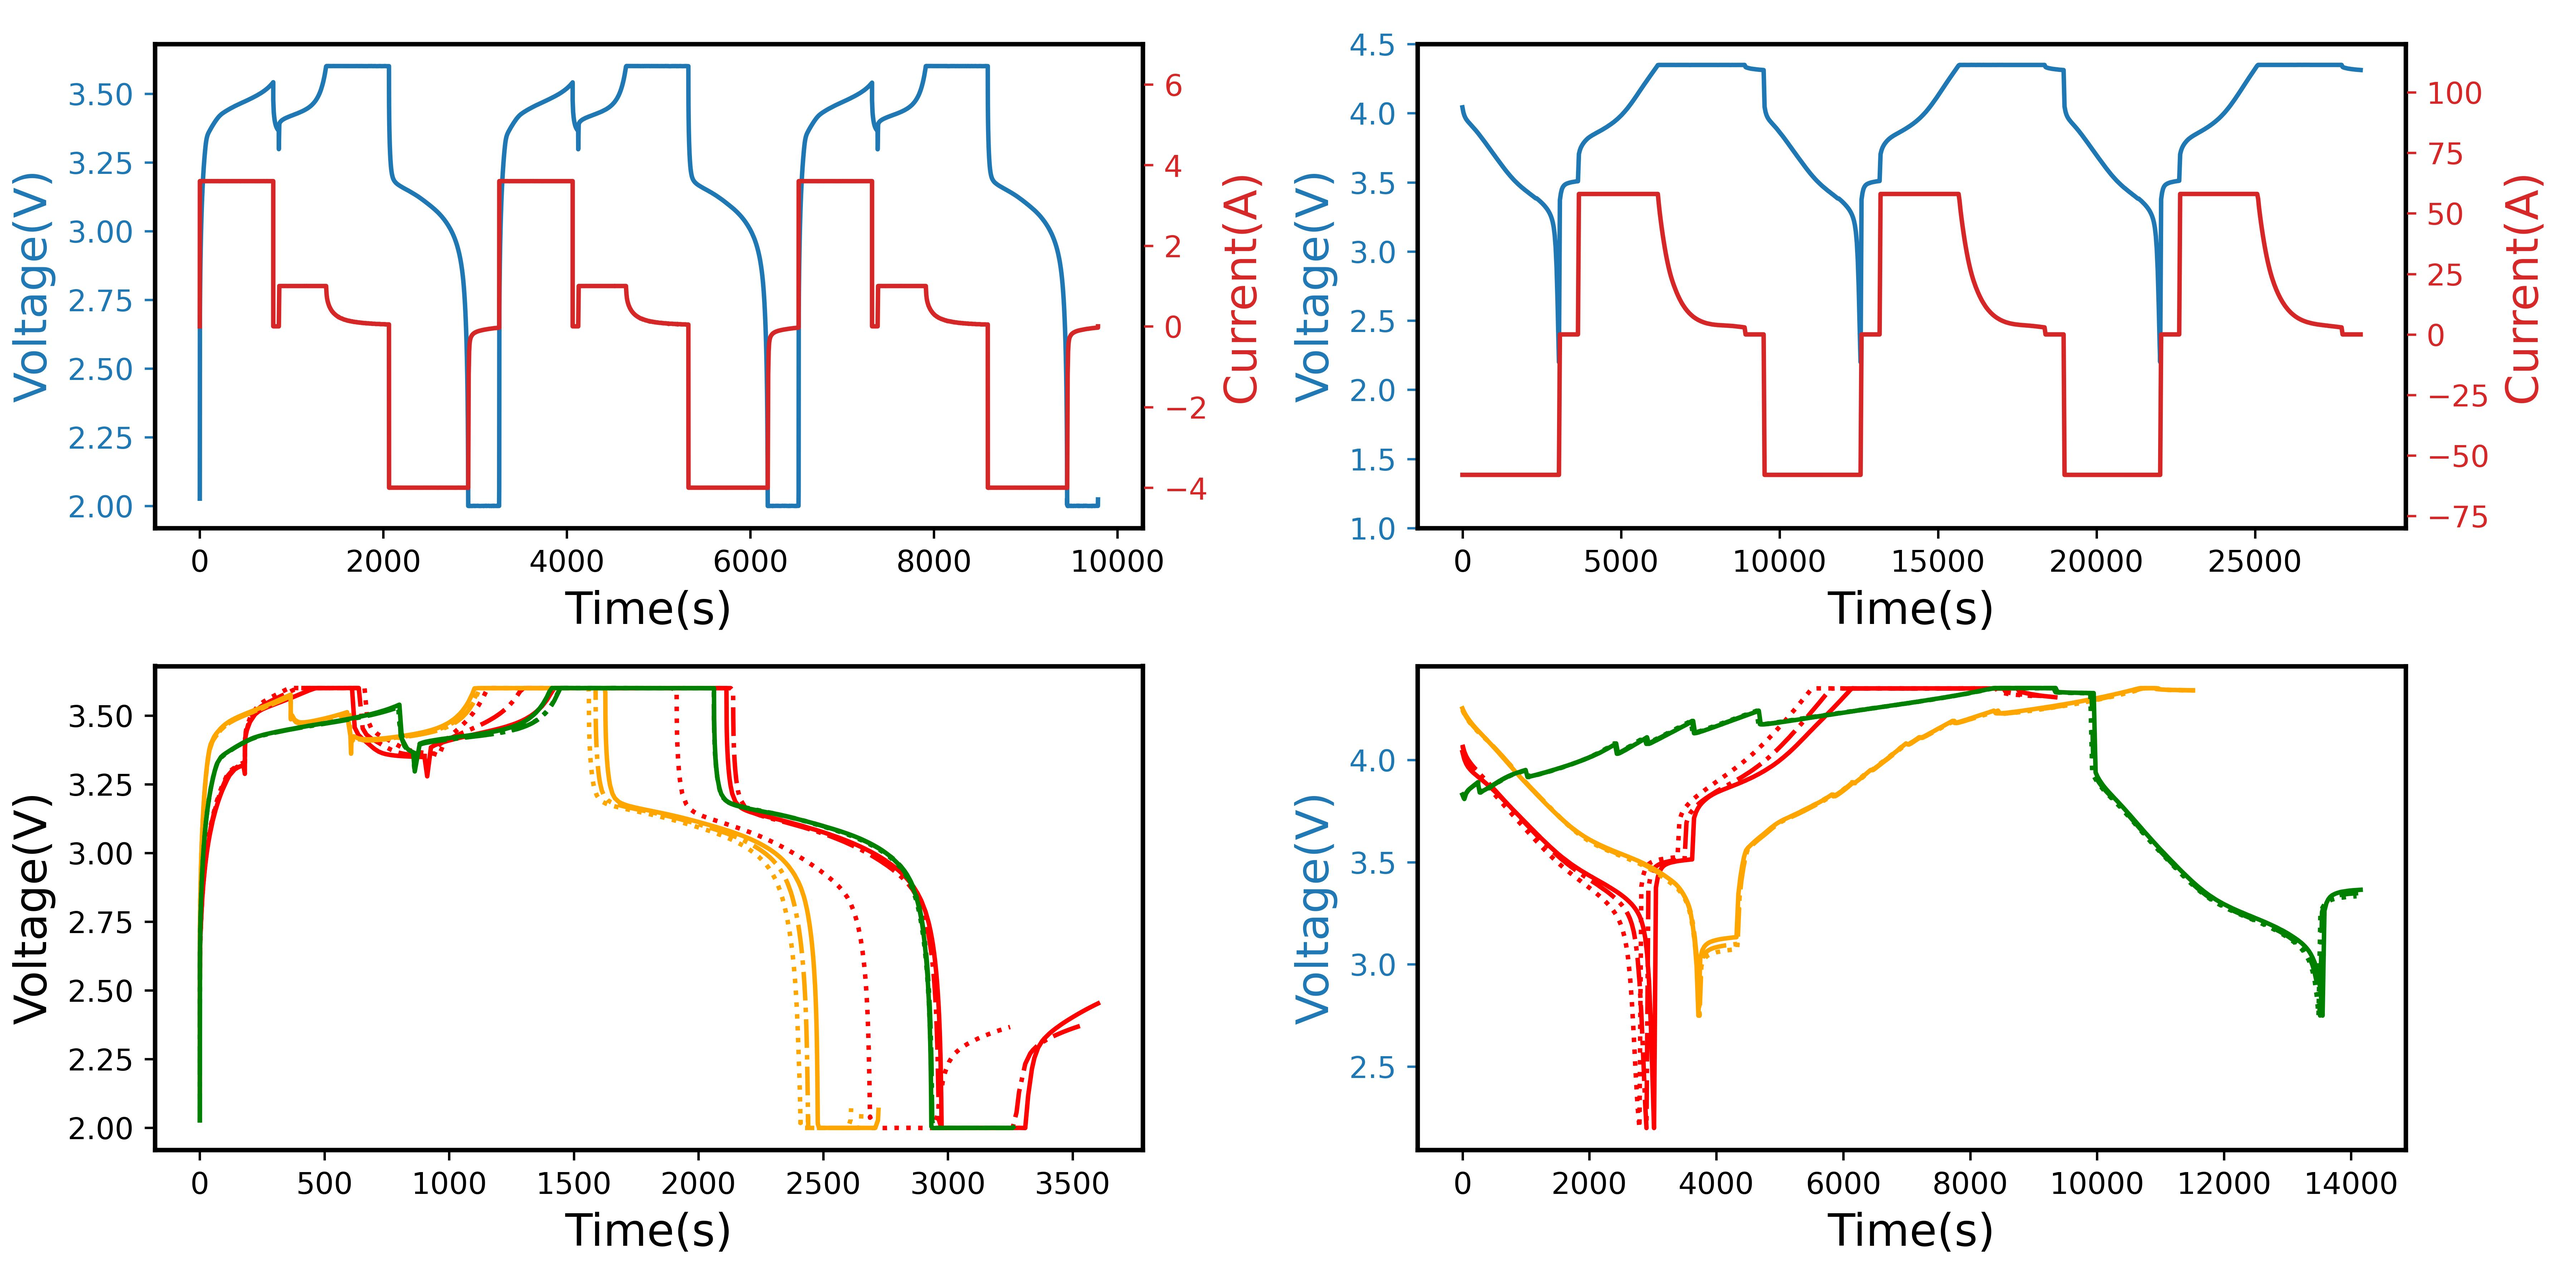
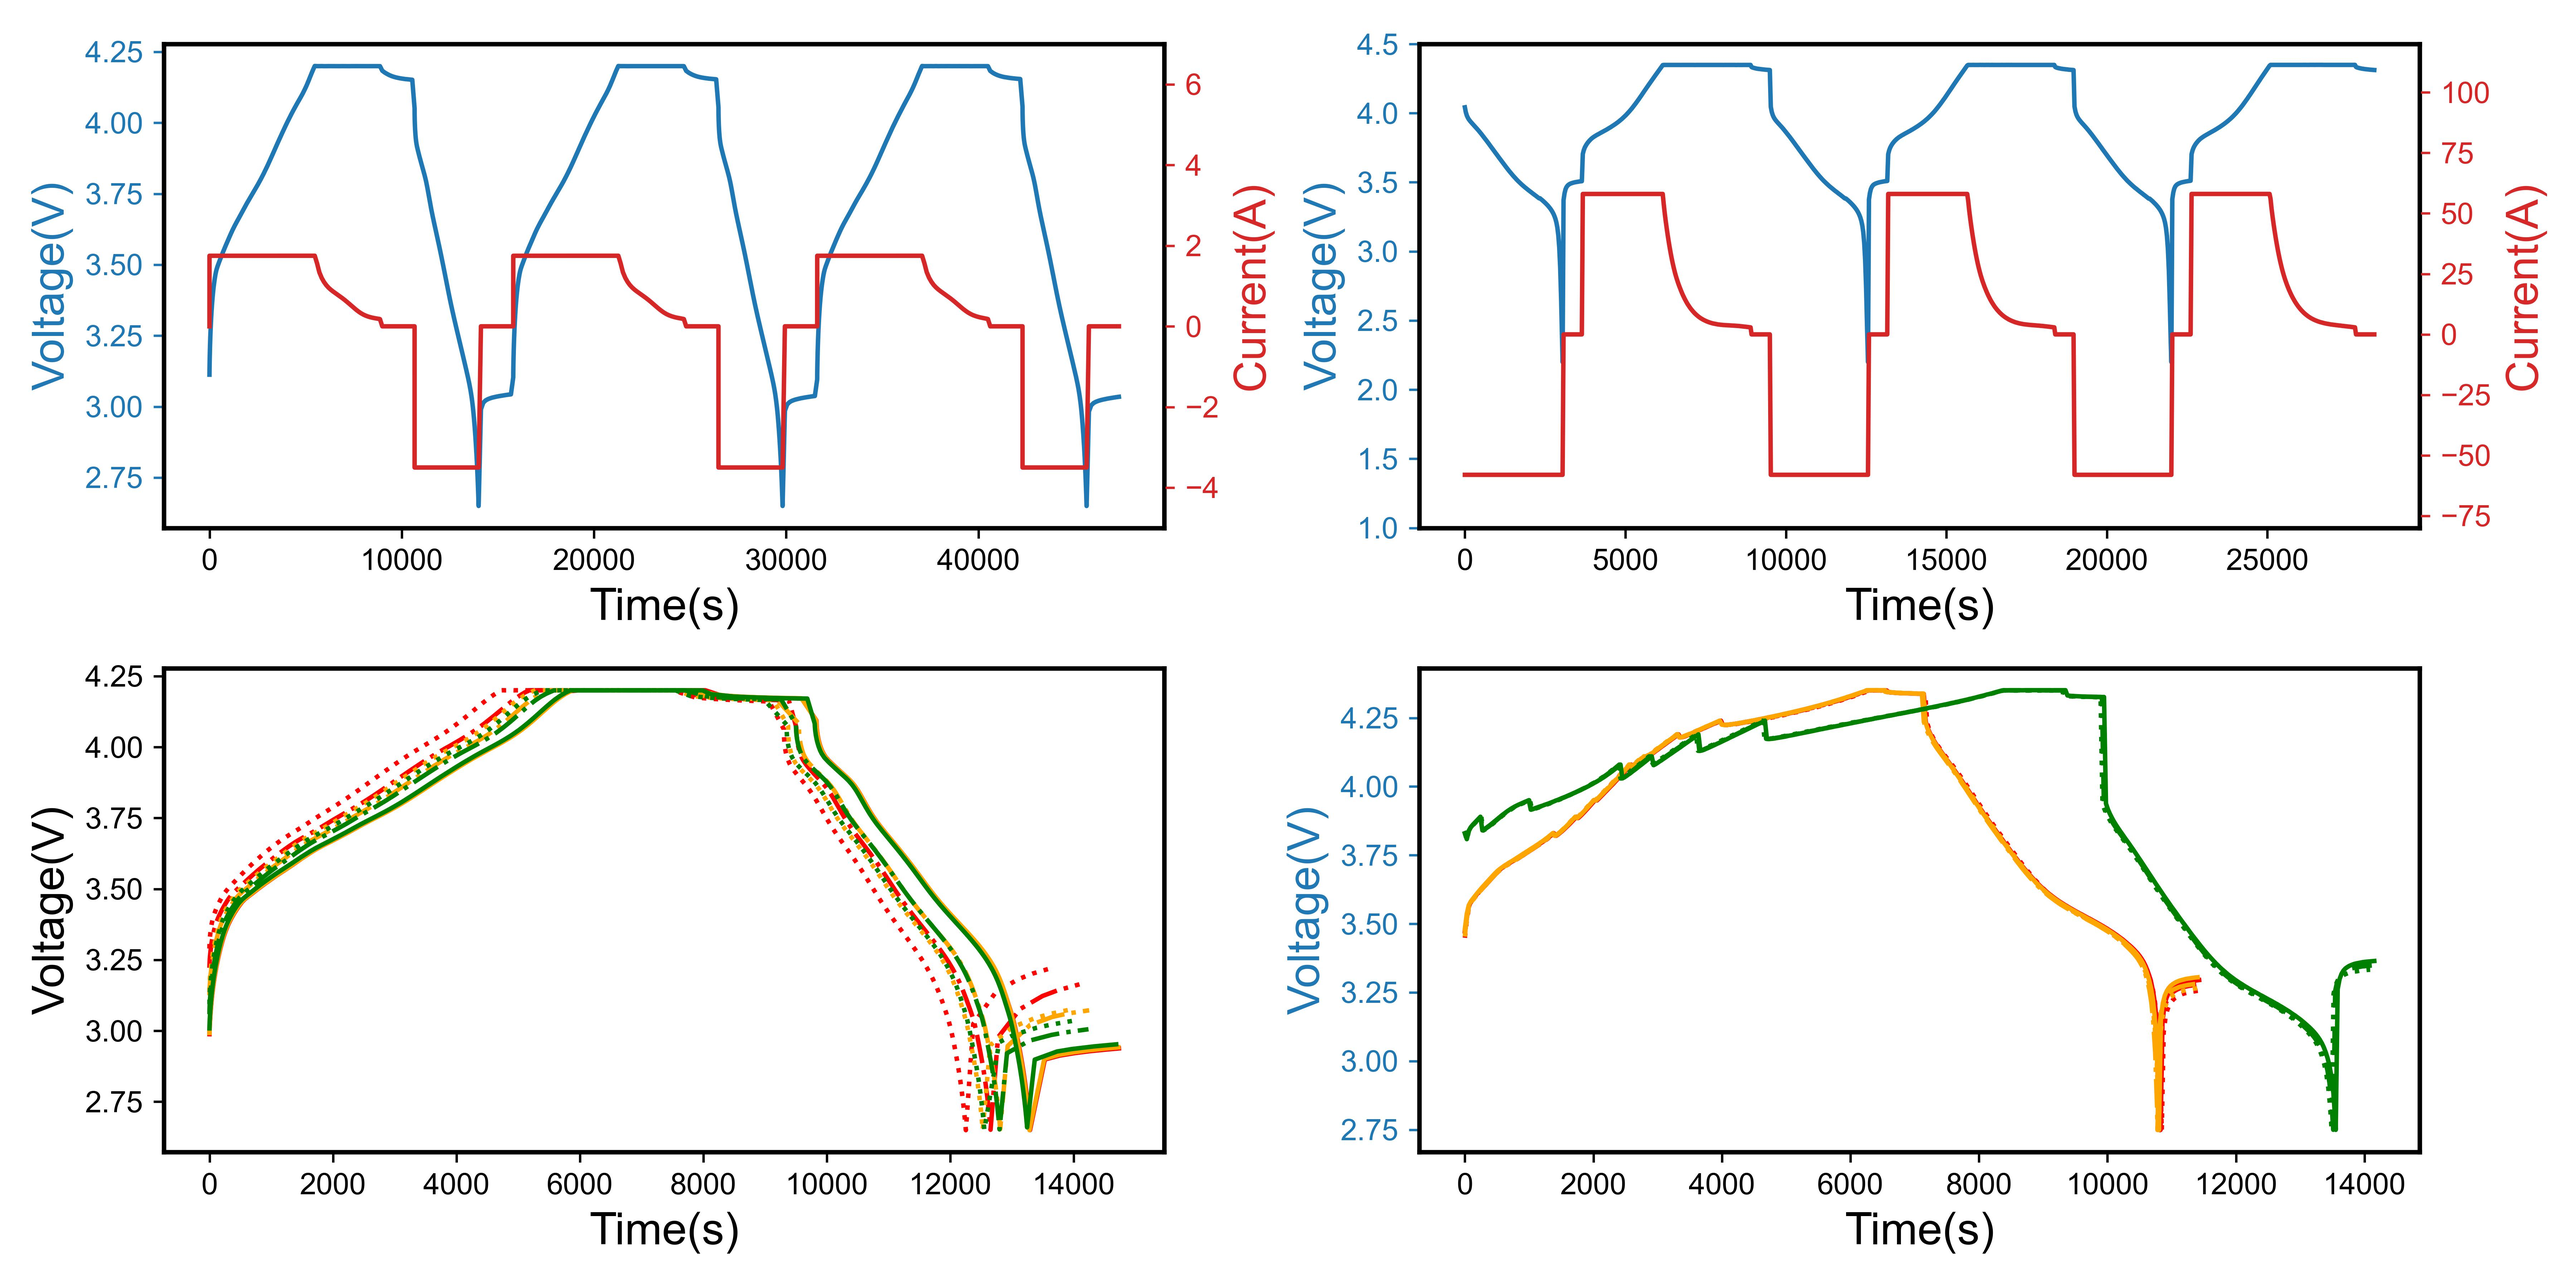
update zero fig

diff --git a/visualization/zero_fig.py b/visualization/zero_fig.py
@@ -103,9 +103,9 @@ def draw_CALB_sequence(fig):
         CALB_label = json.load(f)
     
     max_life = max(CALB_label.values())
-    min_cell = ['CALB_0_B183.pkl']
-    mean_cell = [k for k, v in CALB_label.items() if 995 < v <= 1000]
-    max_cell = [k for k, v in CALB_label.items() if v == max_life]
+    min_cell = ['CALB_35_B173.pkl']
+    mean_cell = ['CALB_35_B248.pkl']
+    max_cell = ['CALB_35_B247.pkl']
     cells = min_cell + mean_cell + max_cell
     #cells = min_cell + mean_cell
 
@@ -145,10 +145,7 @@ def draw_CALB_sequence(fig):
         time_50 = [i-new_times[0] for i in new_times]
 
         # 100th cycle
-        if cell.endswith('B247.pkl'):
-            cycle_data = cell_data['cycle_data'][98]
-        else:
-            cycle_data = cell_data['cycle_data'][99]
+        cycle_data = cell_data['cycle_data'][98]
         voltage_100 = cycle_data['voltage_in_V']
         time_100 = cycle_data['time_in_s']
         new_times = []
@@ -161,14 +158,13 @@ def draw_CALB_sequence(fig):
             new_times.append(seconds)
         time_100 = [i-new_times[0] for i in new_times]
 
-
         ax1 = plt.subplot(2, 2, 4)
         color = sns.color_palette("flare")
-        if cell.endswith('B183.pkl'):
+        if cell.endswith('B173.pkl'):
             marker = 'o'
             color = 'red'
             label_prefix = 'Low life cell'
-        elif cell.endswith('B253.pkl'):
+        elif cell.endswith('B248.pkl'):
             marker = '^'
             color = 'orange'
             label_prefix = 'Middle life cell'
@@ -188,11 +184,10 @@ def draw_CALB_sequence(fig):
 
 
 def draw_MATR_sequence(fig):
-    with open('/data/trf/python_works/Battery-LLM/dataset/MATR/MATR_b1c0.pkl', 'rb') as f:
-        MATR_data = pickle.load(f)
+    with open('/data/trf/python_works/Battery-LLM/dataset/Tongji/Tongji1_CY25-05_1-#1.pkl', 'rb') as f:
+            MATR_data = pickle.load(f)
 
     length = len(MATR_data['cycle_data'])
-    plus_time = 0
     total_current = []
     total_voltage = []
     total_time = []
@@ -201,9 +196,6 @@ def draw_MATR_sequence(fig):
         current = cycle_data['current_in_A']
         voltage = cycle_data['voltage_in_V']
         time = cycle_data['time_in_s']
-        time = [(i * 60) for i in time]
-        time = [time + plus_time for time in time]
-        plus_time = max(time)
 
         total_time = total_time + time
         total_current = total_current + current
@@ -226,22 +218,17 @@ def draw_MATR_sequence(fig):
     ax2.tick_params('y', colors=color)
     set_ax_linewidth(ax1)
     # plt.title('Voltage-Current vs time Profile')
-
-    with open('/data/trf/python_works/Battery-LLM/dataset/MATR_labels.json', 'rb') as f:
-        MATR_label = json.load(f)
     
-    min_life = min(MATR_label.values())
-    max_life = max(MATR_label.values())
-    min_cell = [k for k, v in MATR_label.items() if v == min_life]
-    mean_cell = [k for k, v in MATR_label.items() if 995 < v <= 1000]
-    max_cell = [k for k, v in MATR_label.items() if v == max_life]
+    min_cell = ['Tongji1_CY45-05_1-#17.pkl']
+    mean_cell = ['Tongji1_CY45-05_1-#18.pkl']
+    max_cell = ['Tongji1_CY45-05_1-#12.pkl']
     cells = min_cell + mean_cell + max_cell
     #cells = min_cell + mean_cell
 
     total_voltage = []
     total_time = []
     for cell_index, cell in enumerate(cells):
-        with open(f'/data/trf/python_works/Battery-LLM/dataset/MATR/{cell}', 'rb') as f:
+        with open(f'/data/trf/python_works/Battery-LLM/dataset/Tongji/{cell}', 'rb') as f:
             cell_data = pickle.load(f)
         
         length = len(cell_data['cycle_data'])
@@ -249,7 +236,7 @@ def draw_MATR_sequence(fig):
         cycle_data = cell_data['cycle_data'][0]
         voltage_1 = cycle_data['voltage_in_V']
         time_1 = cycle_data['time_in_s']
-        time_1 = [(i * 60) for i in time_1]
+        time_1 = [(i-time_1[0]) for i in time_1]
         time_1 = get_evenly_spaced_values(time_1)
         voltage_1 = get_evenly_spaced_values(voltage_1)
 
@@ -257,7 +244,7 @@ def draw_MATR_sequence(fig):
         cycle_data = cell_data['cycle_data'][49]
         voltage_50 = cycle_data['voltage_in_V']
         time_50 = cycle_data['time_in_s']
-        time_50 = [(i * 60) for i in time_50]
+        time_50 = [(i-time_50[0]) for i in time_50]
         time_50 = get_evenly_spaced_values(time_50)
         voltage_50 = get_evenly_spaced_values(voltage_50)
 
@@ -265,21 +252,21 @@ def draw_MATR_sequence(fig):
         cycle_data = cell_data['cycle_data'][99]
         voltage_100 = cycle_data['voltage_in_V']
         time_100 = cycle_data['time_in_s']
-        time_100 = [(i * 60) for i in time_100]
+        time_100 = [(i-time_100[0]) for i in time_100]
         time_100 = get_evenly_spaced_values(time_100)
         voltage_100 = get_evenly_spaced_values(voltage_100)
 
         ax1 = plt.subplot(2, 2, 3)
         color_palette = sns.color_palette("ch:s=.25,rot=-.25")
-        if cell.endswith('b2c1.pkl'):
+        if cell.endswith('CY45-05_1-#17.pkl'):
             marker = 'o'
             color = 'red'
             label_prefix = 'Low life cell'
-        elif cell.endswith('b3c22.pkl'):
+        elif cell.endswith('CY45-05_1-#18.pkl'):
             marker = '^'
             color = 'orange'
             label_prefix = 'Middle life cell'
-        elif cell.endswith('b1c2.pkl'):
+        elif cell.endswith('CY45-05_1-#12.pkl'):
             marker = 's'
             color = 'green'
             label_prefix = 'High life cell'
